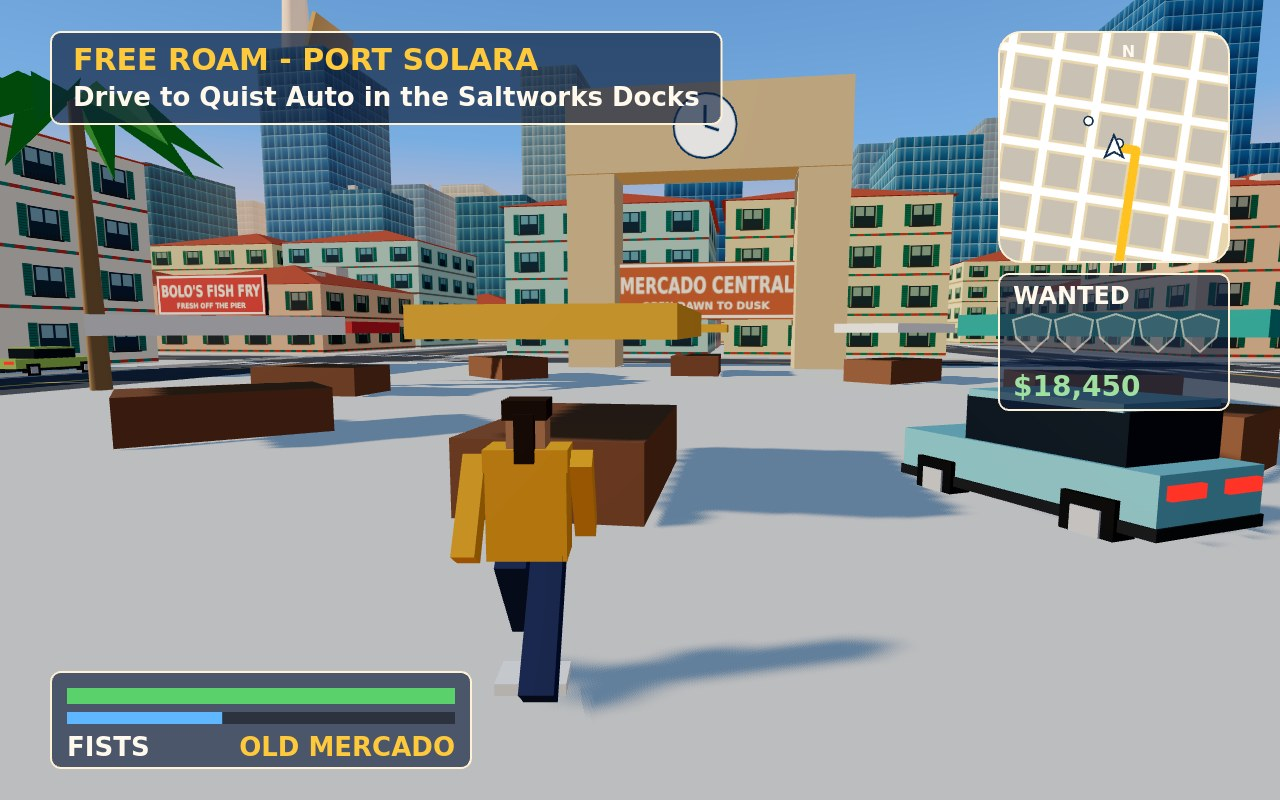
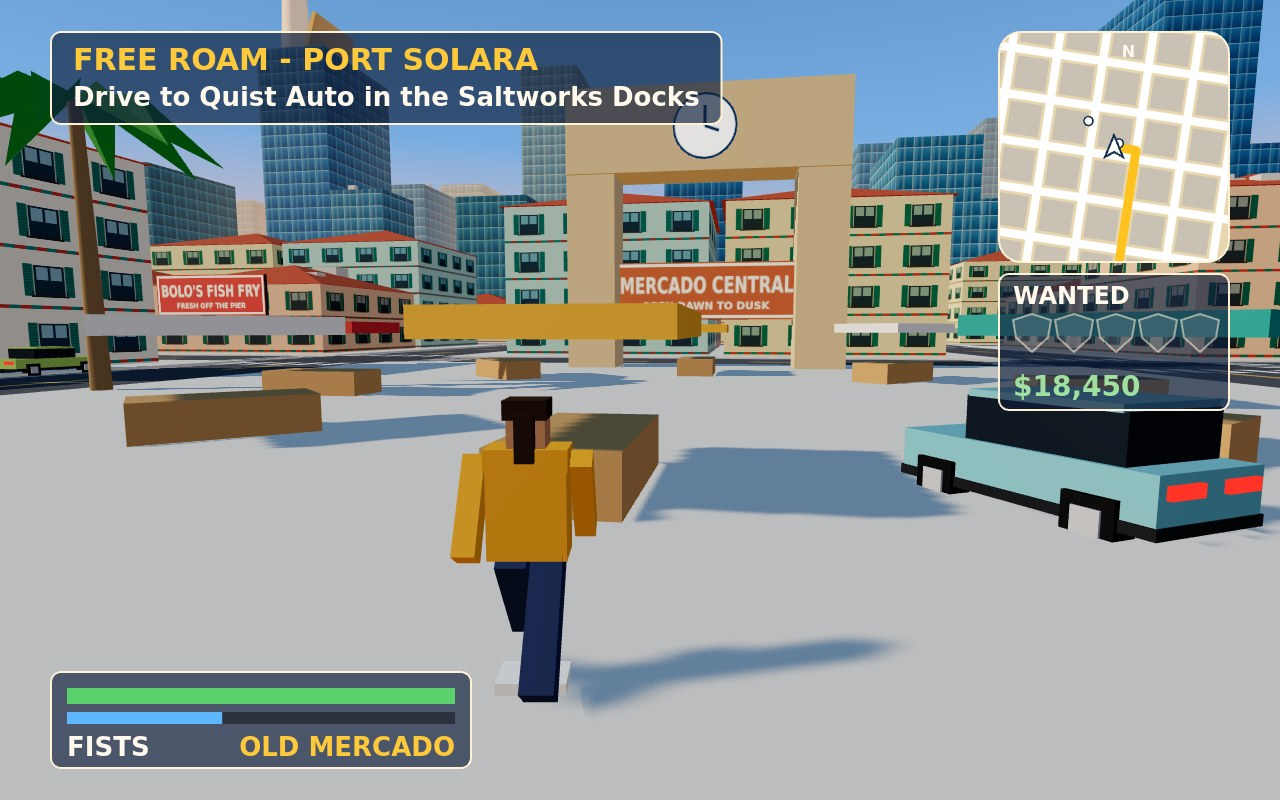
M1: lighter market tables, re-shot street, outline skips imports, notes with perf and shot status

diff --git a/game/src/world/city-builder.js b/game/src/world/city-builder.js
@@ -164,7 +164,7 @@ function buildLandmarks(game) {
     const x = q.x + Math.cos(ang) * 13, z = q.z + Math.sin(ang) * 13;
     const stall = box(4.5, 0.4, 3.2, awnings[i % 4], x, 2.6, z);
     stall.rotation.y = -ang;
-    const table = box(4, 1, 2.4, 0x8a5a3c, x, 0.7, z);
+    const table = box(3.6, 0.9, 1.8, 0xc99a63, x, 0.6, z);
     table.rotation.y = -ang;
     scene.add(stall, table);
   }

diff --git a/NOTES.md b/NOTES.md
@@ -26,16 +26,18 @@
   outline.mjs, check-originality.mjs.
 
 ## Self-test (SwiftShader, 1280x800)
-- boot PASS (city build ~41 ms, 10 cars), walk PASS (9.3 m in 3 s, never inside a building),
-  drive PASS (35 m/s after 4 s; wall hit leaves 75 health, no pass-through), perf PASS
-  (146 draw calls, ~32k triangles, median render 1.9 ms with gl.finish), console clean.
+- boot PASS (city build 35-41 ms, 10 cars), walk PASS (9.3 m in 3 s, never inside a building),
+  drive PASS (35.2 m/s after 4 s; wall hit leaves 75 health, no pass-through), perf PASS
+  (146 draw calls, 31,697 triangles, median render 1.6-1.9 ms with gl.finish, heap ~14 MB), console clean.
+- The perf median times render() only; a full-frame cover-scene timing comes with traffic in M2.
 - Originality: PASS (0 hits).
 
 ## Shots
 - 1-chase.jpg (~187 KiB): Albacore at 90 km/h up Palmline Boulevard, full HUD, sea + lighthouse. No
   police/traffic/peds yet (M2/M3). Sundial Tower is hidden behind the hotel row from this angle.
 - 2-street.jpg (~165 KiB): Wren on foot in the Old Mercado square, Clock Arch, Mercado Central sign,
-  parked Pipit. Not yet over-the-shoulder aiming or combat (M4).
+  parked Pipit. Not yet over-the-shoulder aiming or combat (M4). The "[F] ENTER" prompt is out of
+  range in this frame. A handbrake-drift cover was tried and reverted: the camera swung into the hotel wall.
 - 4-title.jpg (~188 KiB): wordmark over Coral Heights and the Sundial Tower. No CONTINUE yet (M5).
 - 3-map.jpg: not taken (M5).
 - Dossier: ~795 KiB, byte-identical on two runs.
